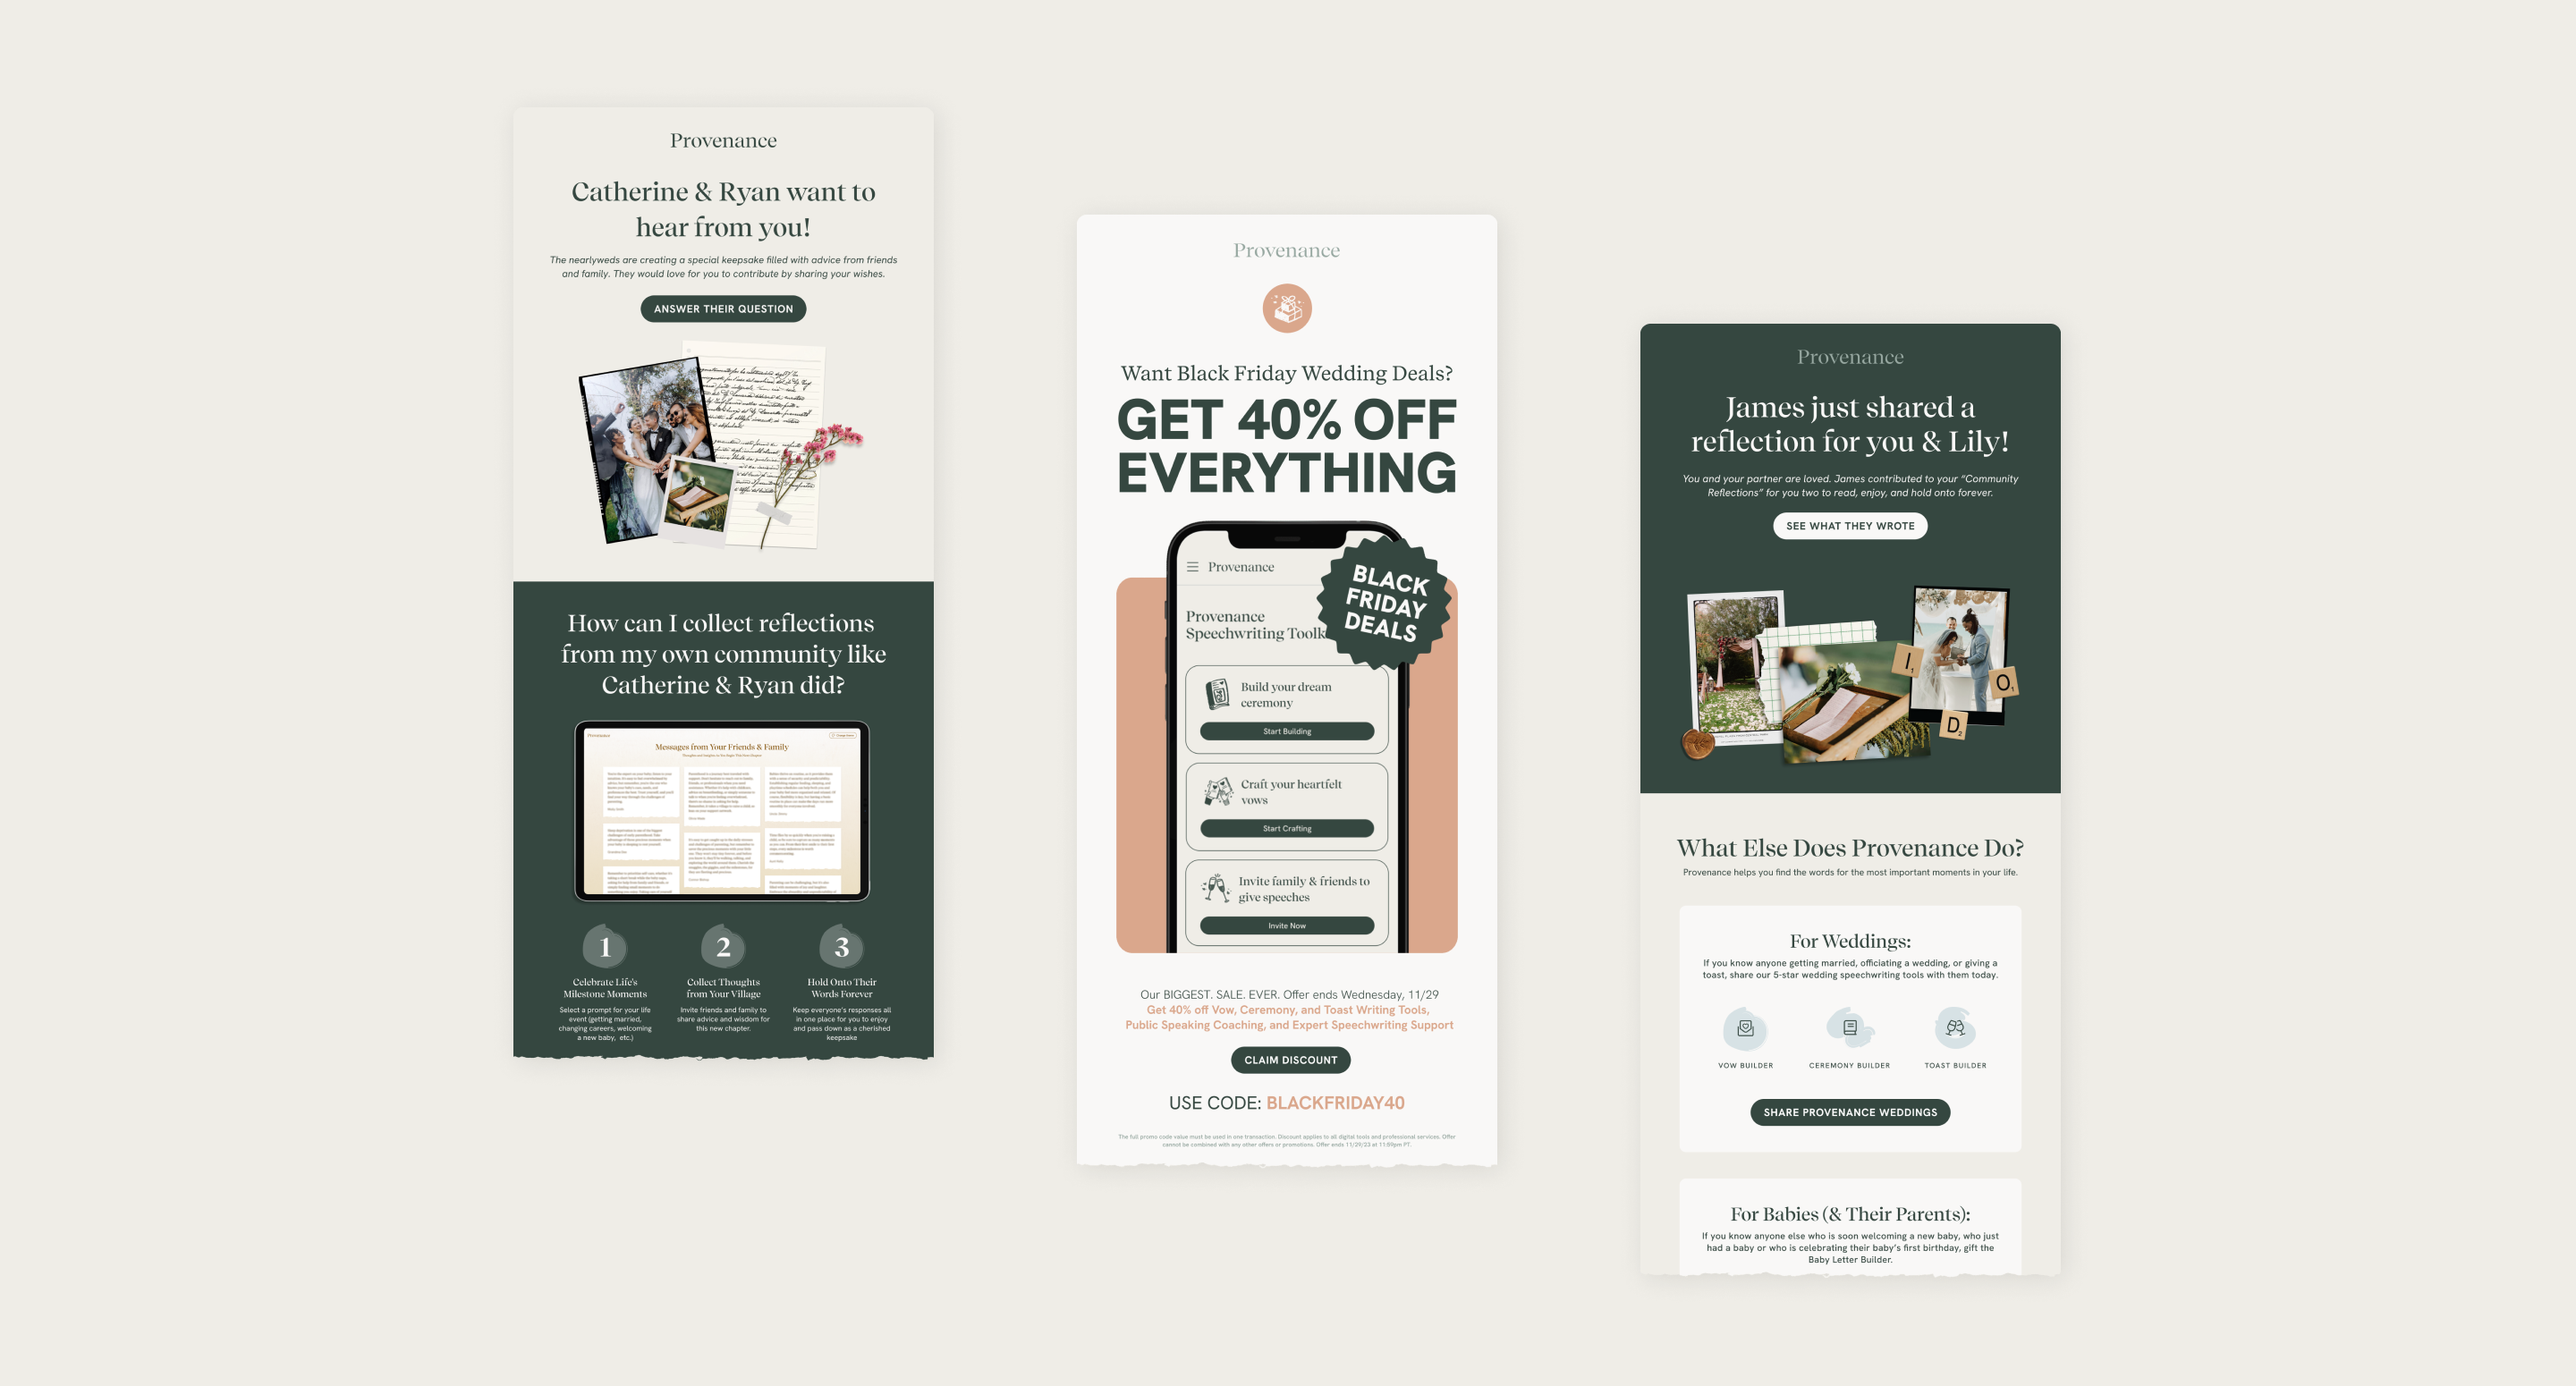
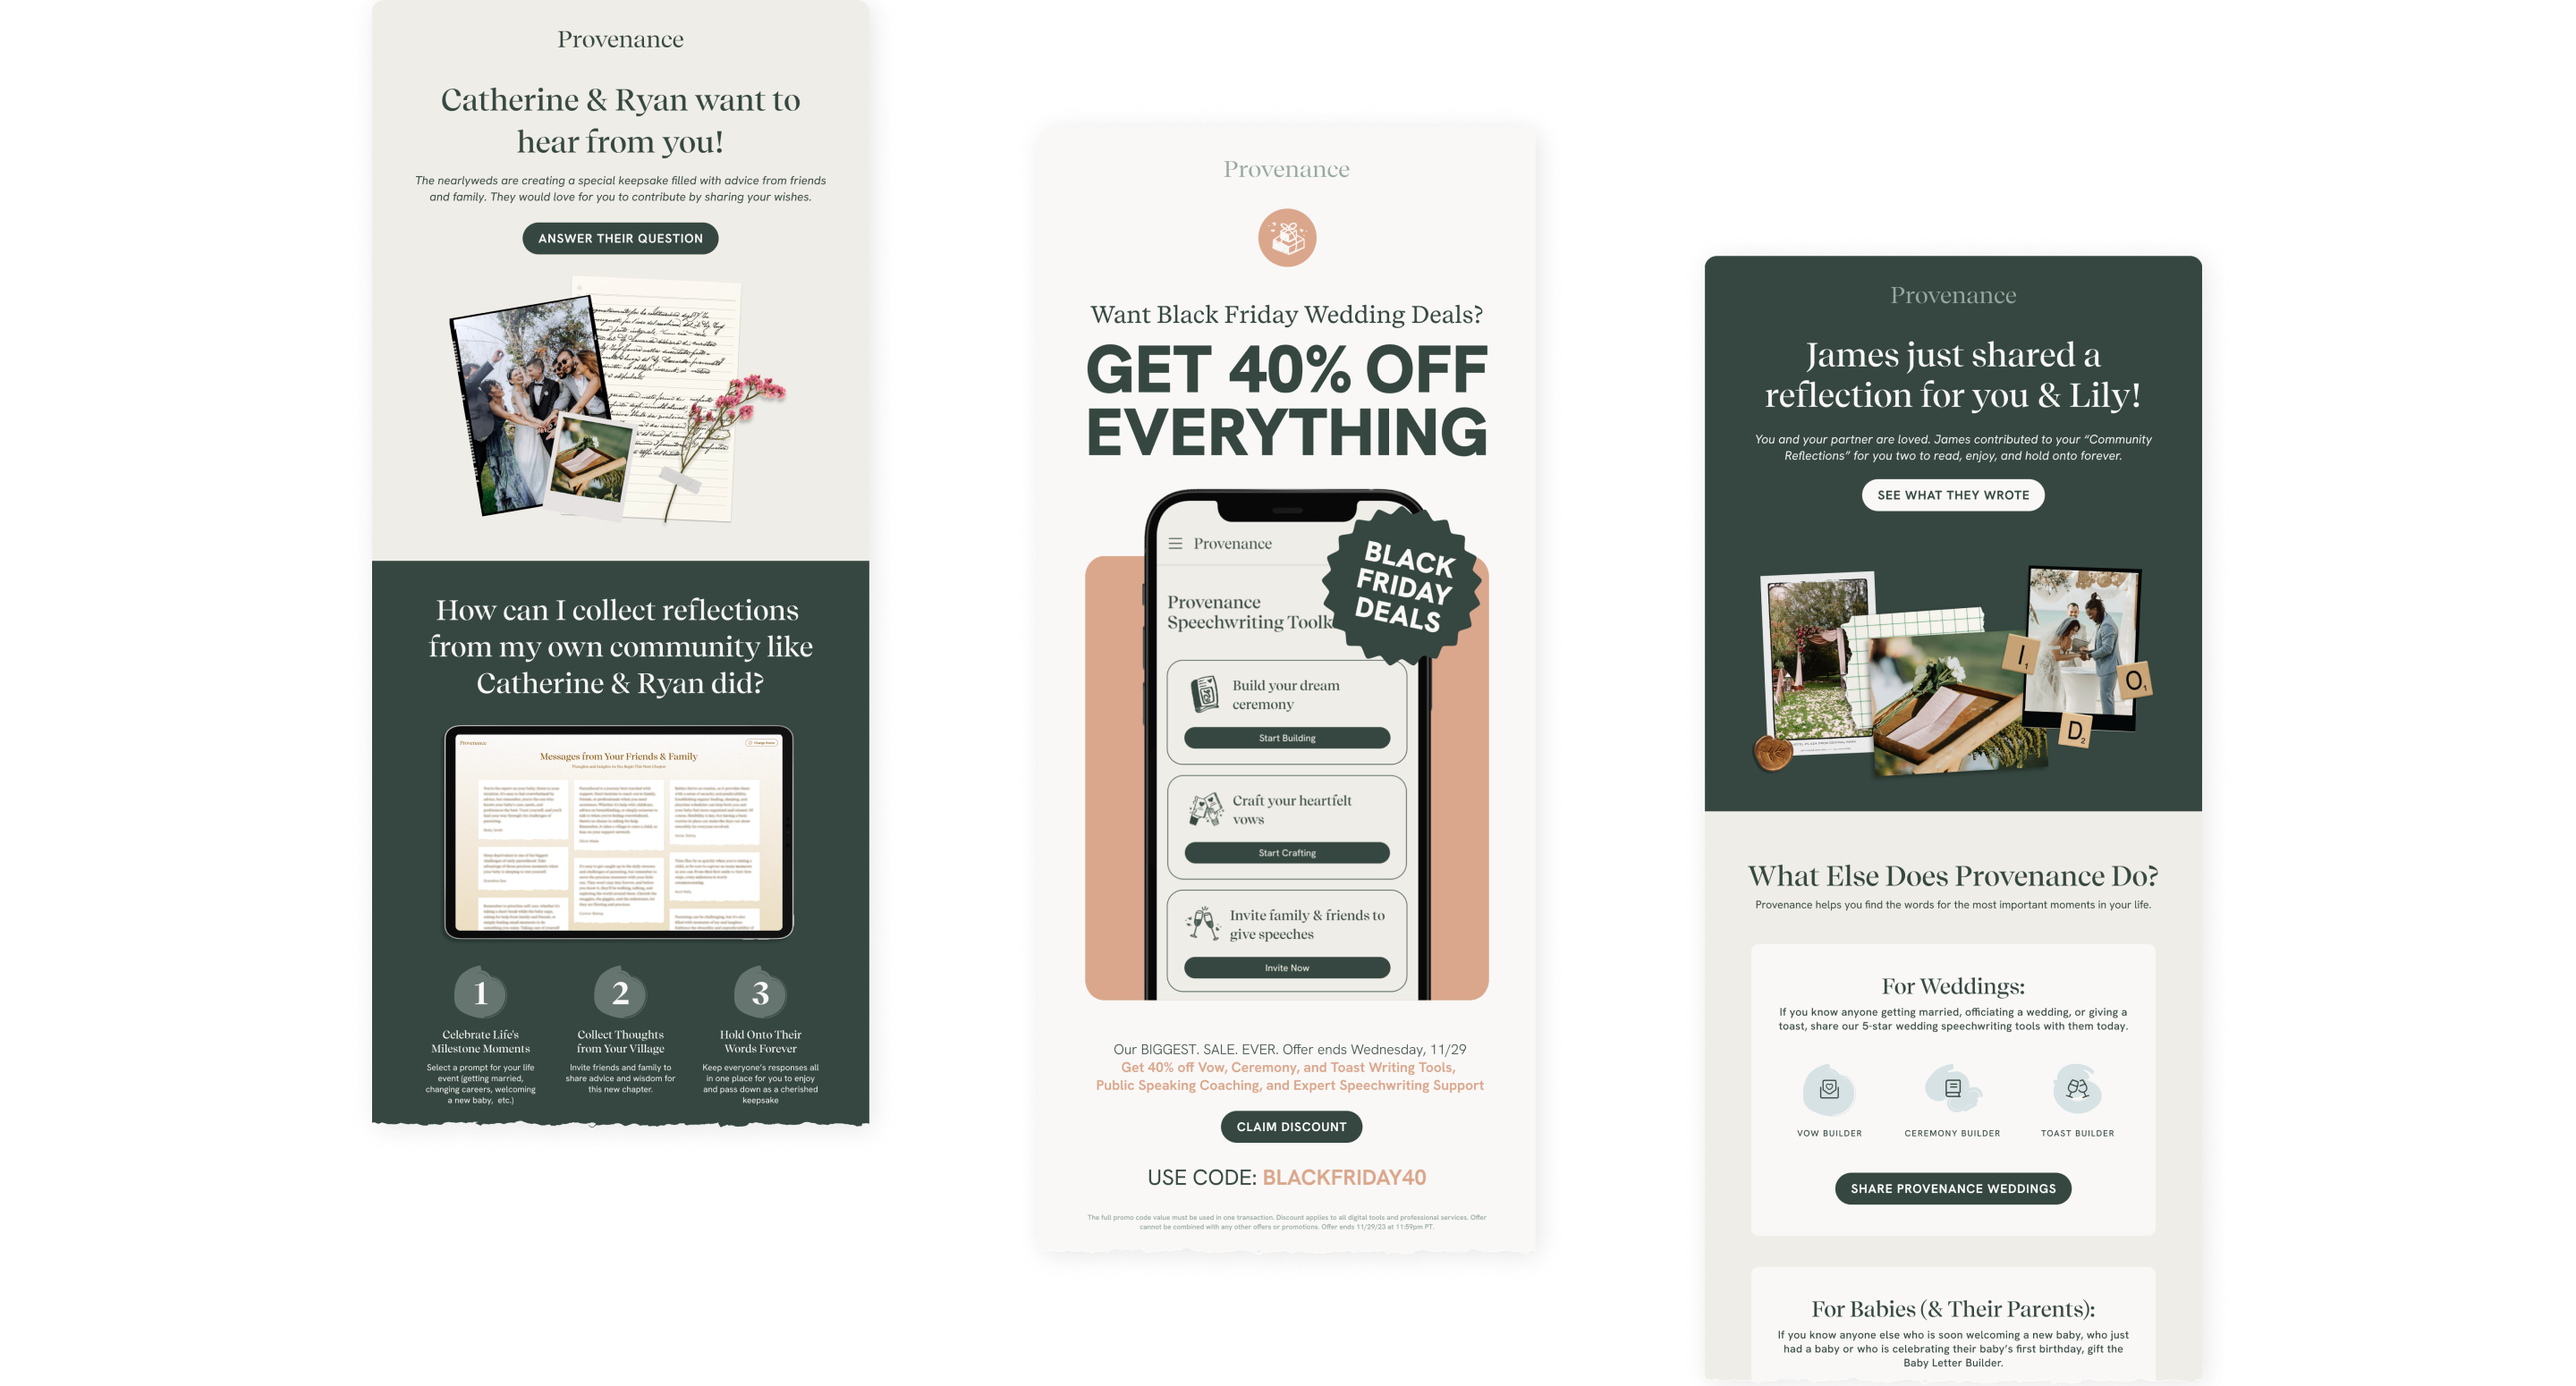
lololol

Changed region(s): [[0.125, 0.0619, 0.375, 0.8361], [0.625, 0.1858, 0.875, 0.991], [0.4062, 0.1548, 0.5938, 0.8671]]

diff --git a/case.css b/case.css
@@ -181,7 +181,7 @@ transform: translateX(-50%);
 
 .bleedgroup {
 margin-left: 1vw;
-width: 115vw;  
+width: 135vw;  
 }
 
 
@@ -201,21 +201,25 @@ padding: 6vw 6vw 6vw 6vw;
 
 
 .YELLOW {
-    background-color: #FEF7E6;
-    padding: 6vw 9vw 6vw 9vw;
+background-color: #FEF7E6;
+padding: 6vw 9vw 6vw 9vw;
 }
 
 .GREEN {
 background-color: #BAD3C2;
-      padding: 6vw 9vw 6vw 9vw;
+padding: 6vw 9vw 6vw 9vw;
 }
 
 
 .SAND {
 background-color: #EFEDE7;
-      padding: 6vw 9vw 6vw 9vw;
+padding: 6vw 9vw 6vw 9vw;
 }
 
+.ORANGE {
+background-color: #EFEDE7;
+padding: 6vw 9vw 6vw 9vw;
+}
 
 hs1 {
 font-size: 30px;
@@ -240,7 +244,7 @@ font-family: 'Halibut', sans-serif;
 
 .rel {
     margin-left: 1vw;
-    height: 38vw;
+    height: 45vw;
 }
 
 

diff --git a/case_06.html b/case_06.html
@@ -81,8 +81,9 @@ Nestled in the heart of New Jersey, Zee's Bees is about family and everything ho
 </div><!--top--->  
     
 <br>
-<div class="image caseimage"><img src="zbprocess.png"></div>
-<div class="image caseimage"><img src="brandex.png"></div>
+
+    <div class="image caseimage"><img src="brandex.png"></div>
+<div class="fullbleed ORANGE"><img src="zbprocess.png"></div>
 <div class="image caseimage"><img src="brandexscreens.png"></div>
 <div class="image caseimage"><img src="zbmotion.gif"></div>
 

diff --git a/case_04.html b/case_04.html
@@ -83,7 +83,7 @@ Provenance offers essential tools for crafting dream wedding vows, ceremony scri
 </p>
 </div><!--top--->
 
-    <br>
+<br>
     
     
 <div class="sectionfb">
